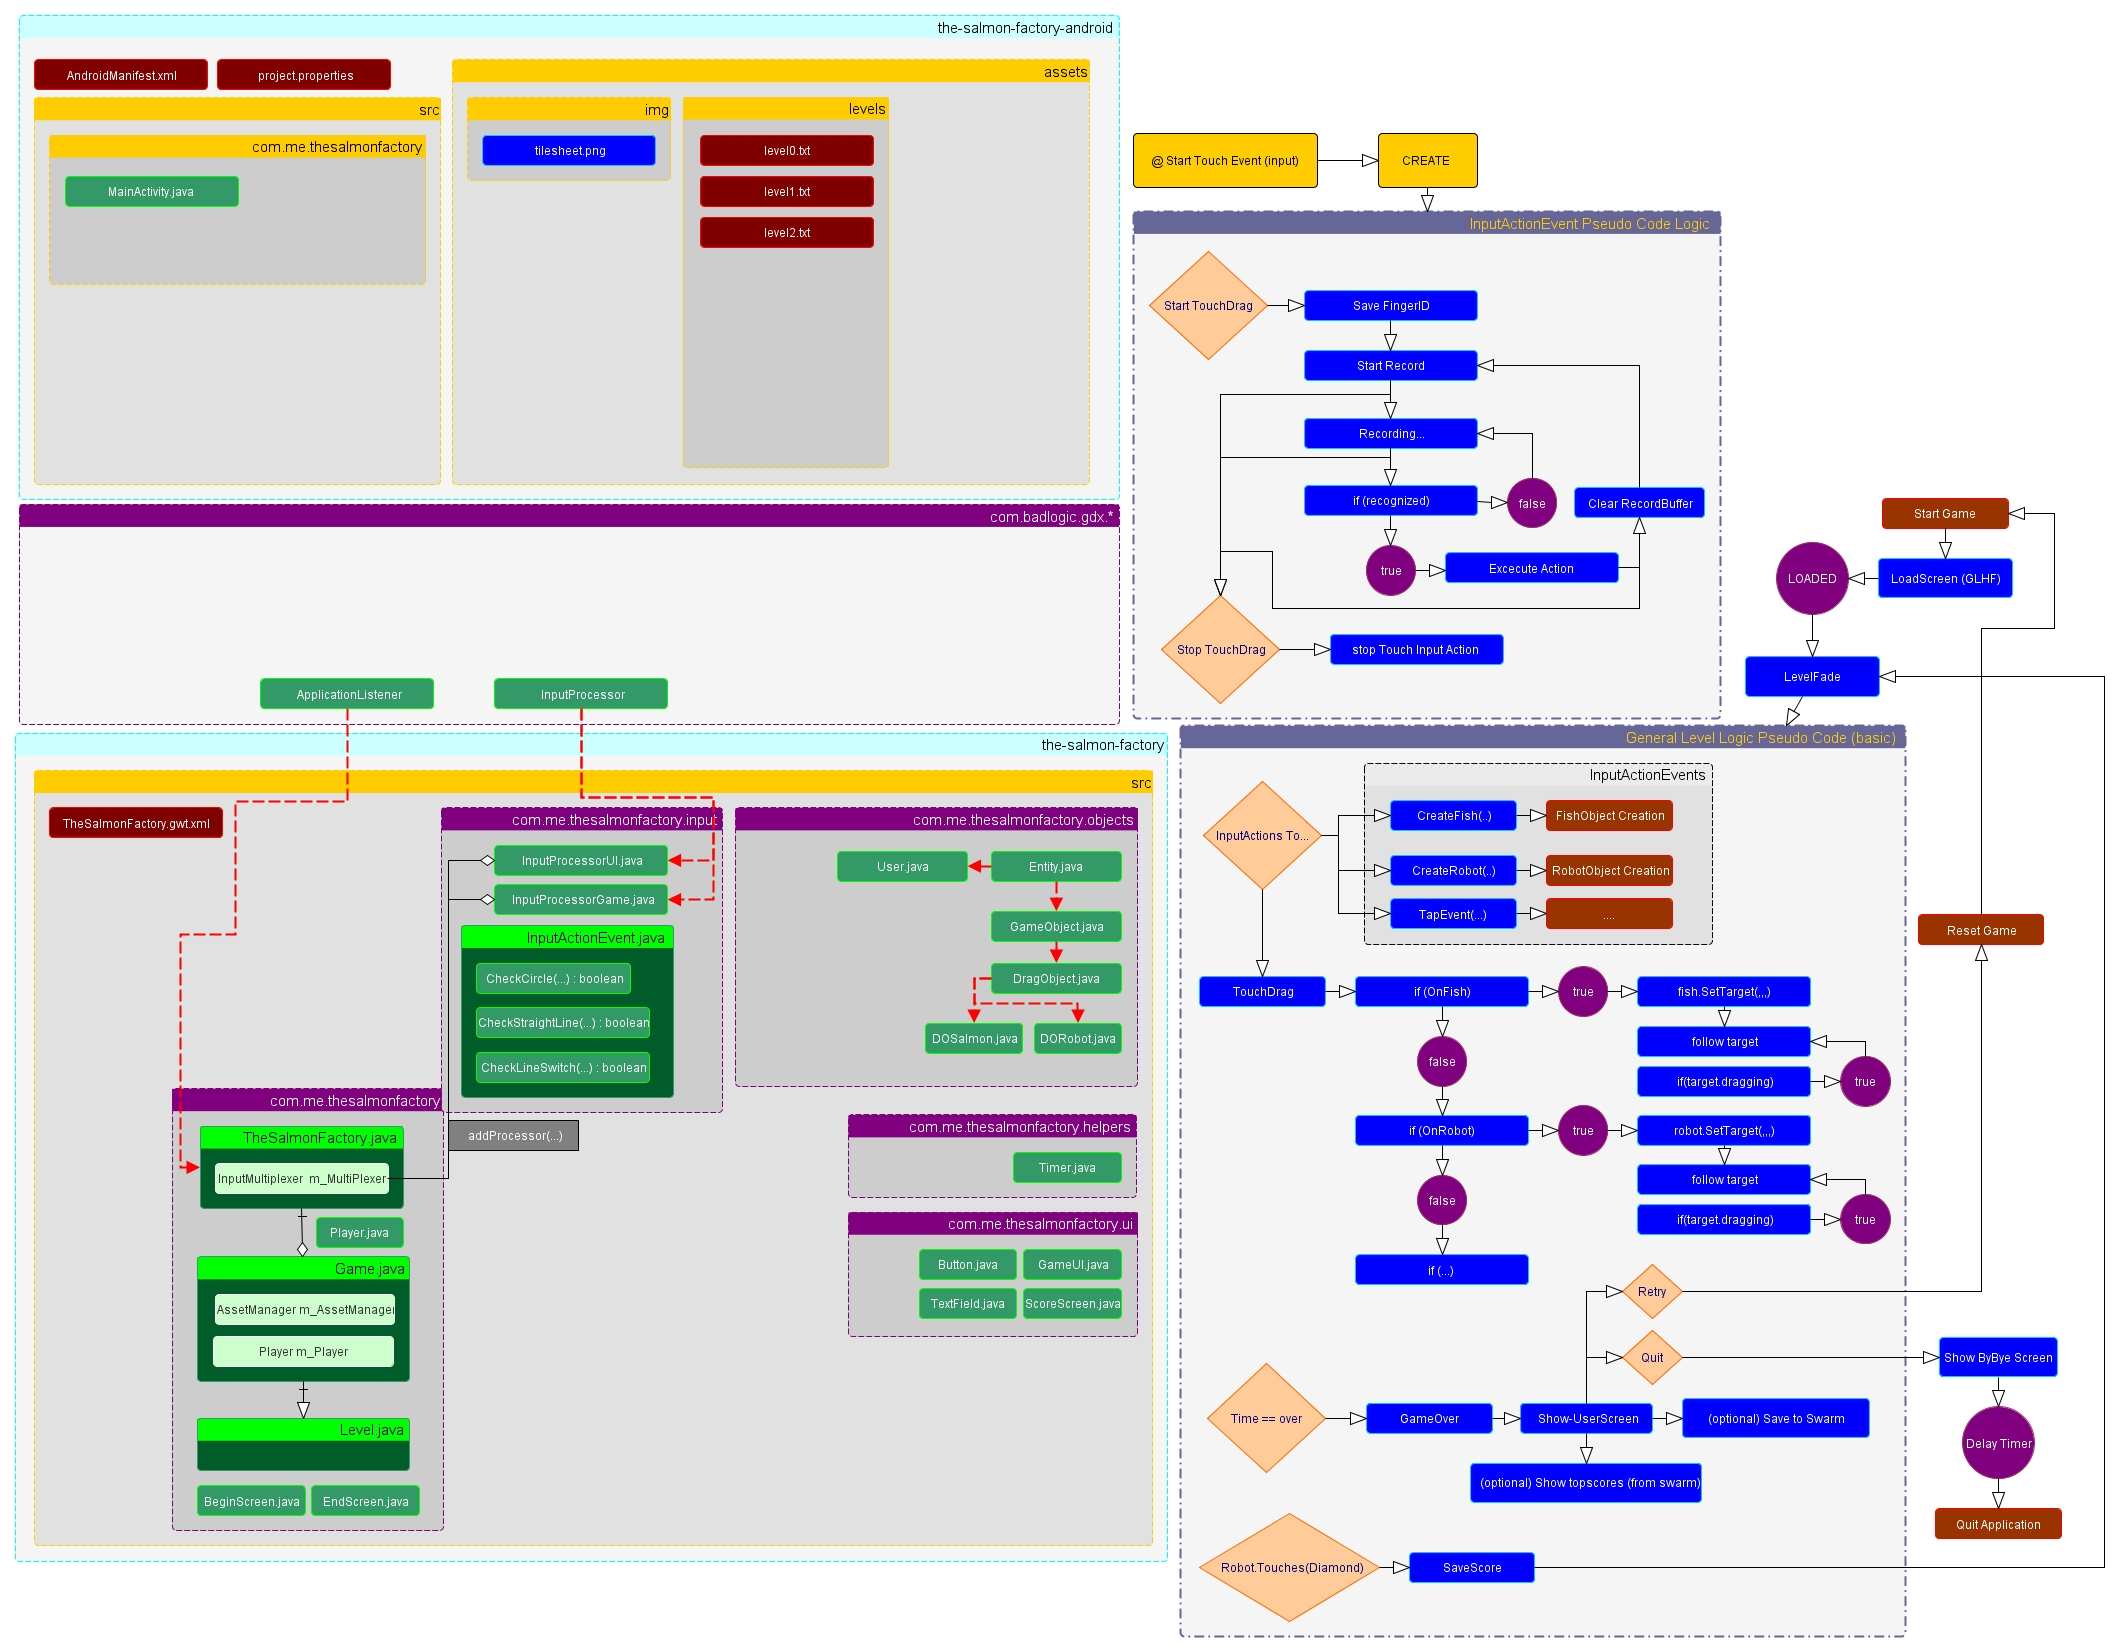
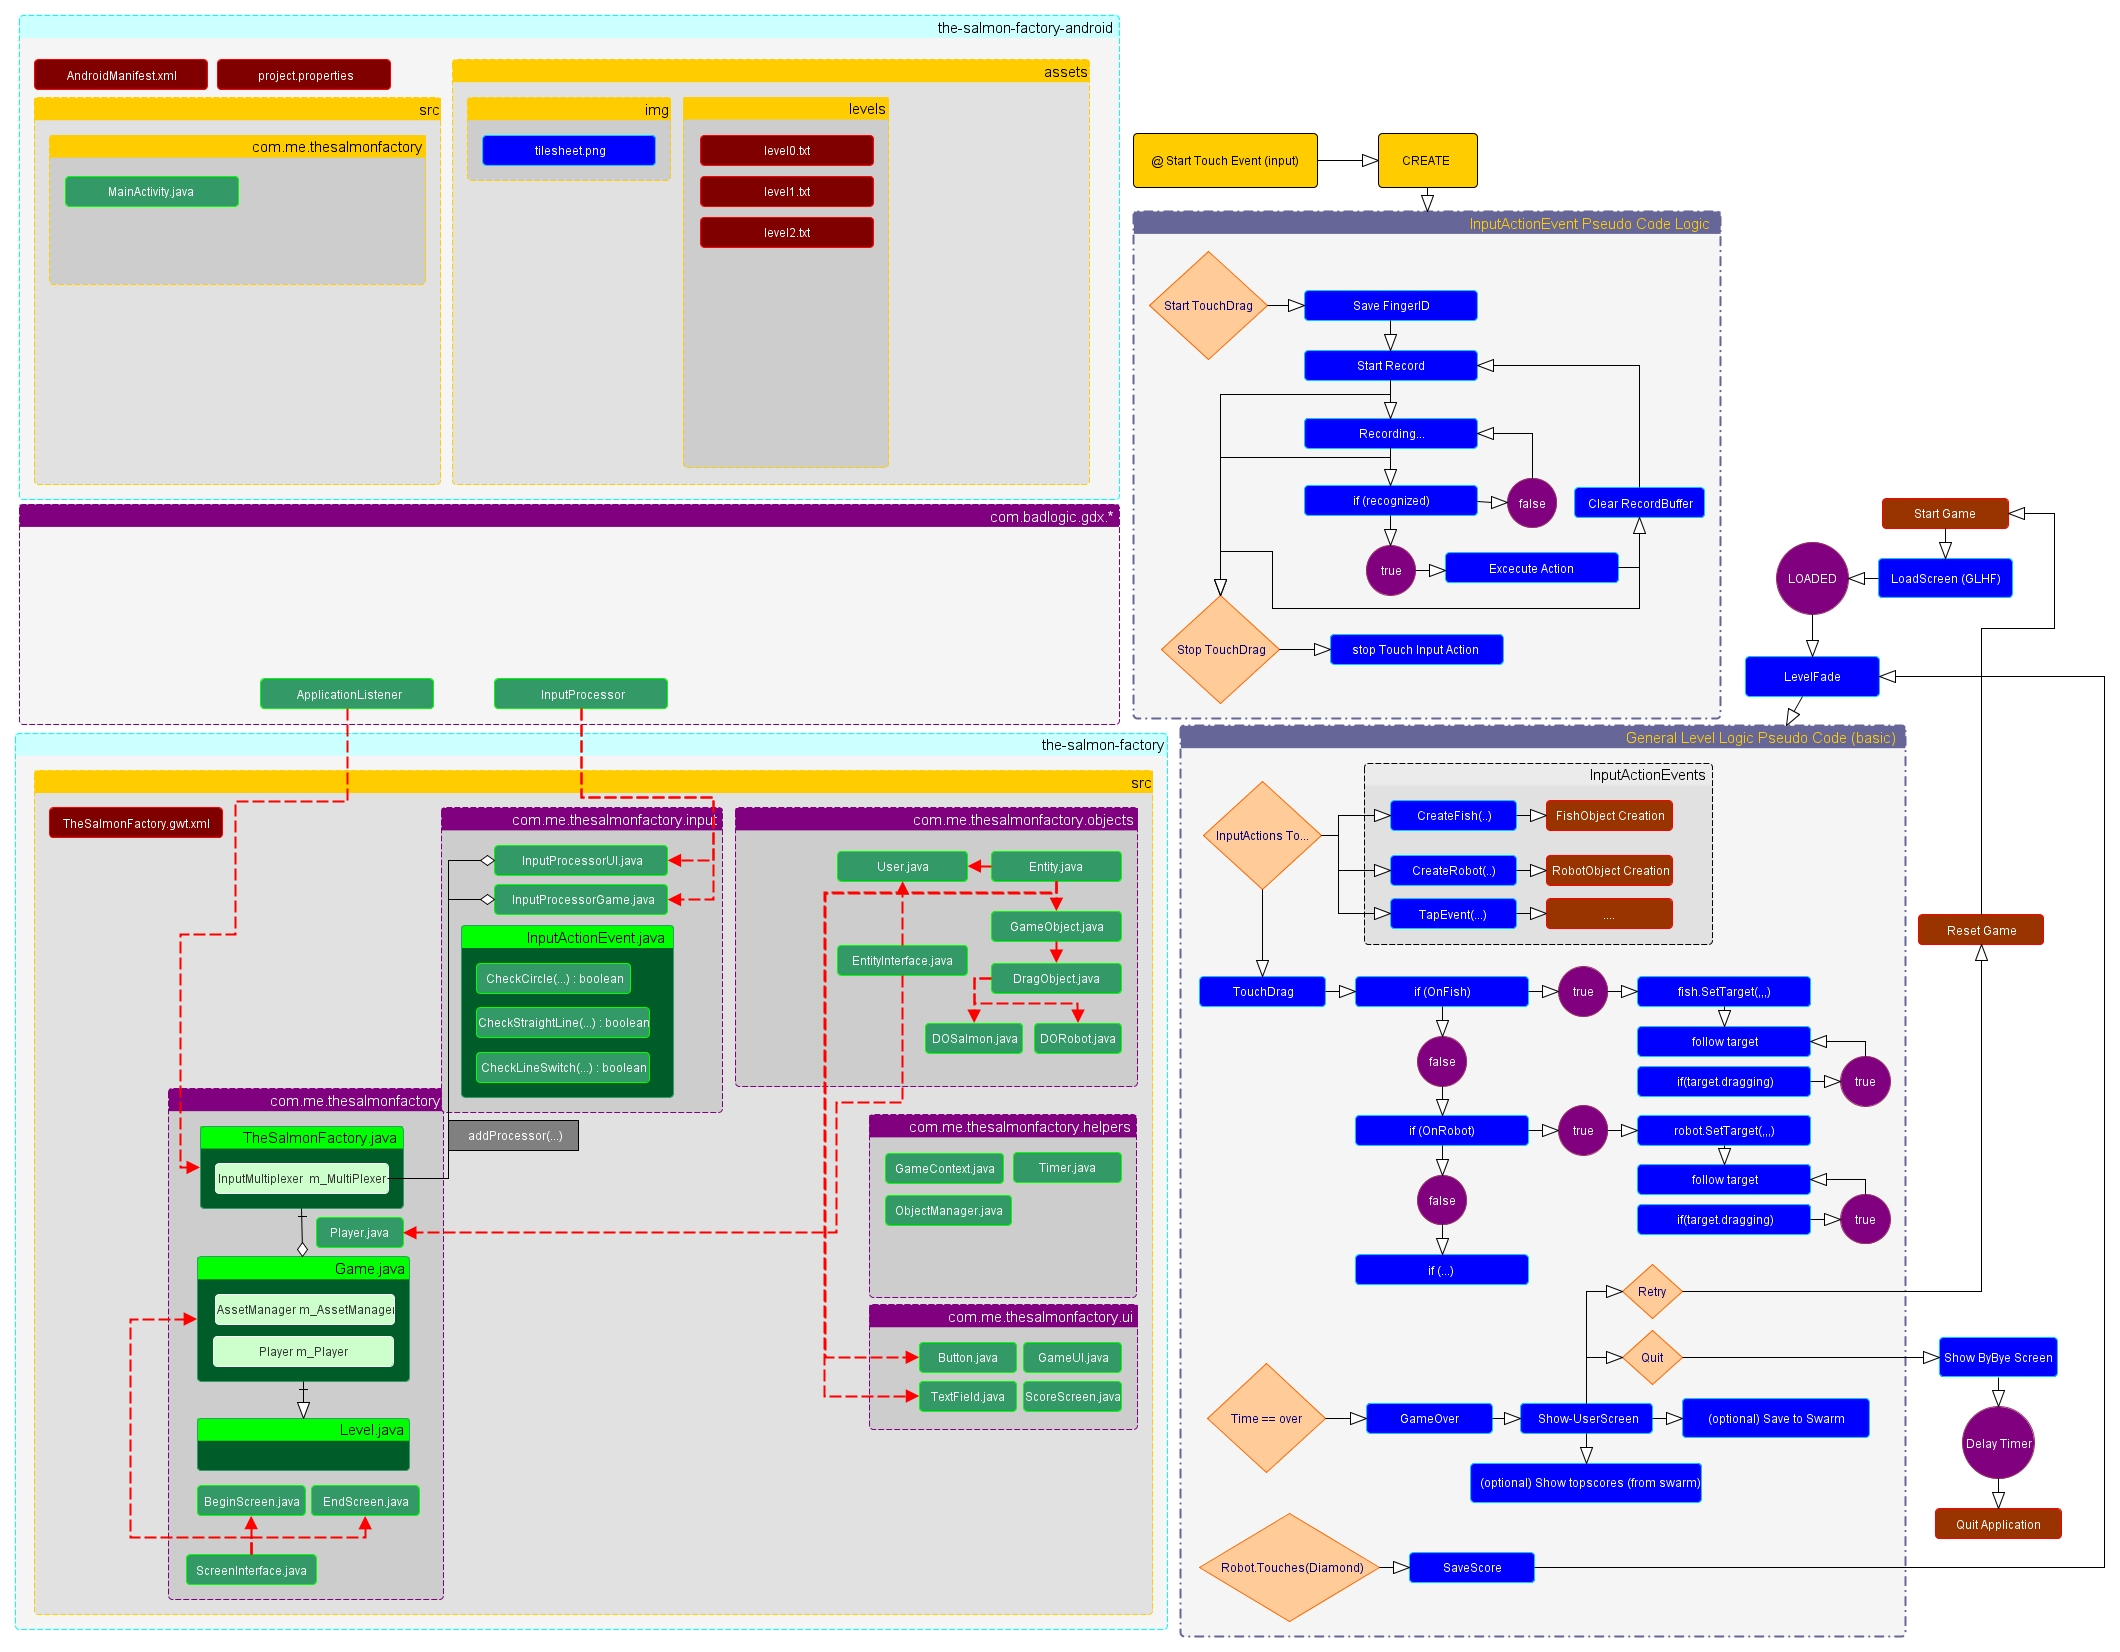
Upload progress InputActions...

diff --git a/the-salmon-factory/src/com/me/thesalmonfactory/input/InputProcessorGame.java b/the-salmon-factory/src/com/me/thesalmonfactory/input/InputProcessorGame.java
@@ -1,15 +1,24 @@
 package com.me.thesalmonfactory.input;
 
-//import com.badlogic.gdx.Gdx;
+import com.badlogic.gdx.Gdx;
 import com.badlogic.gdx.InputProcessor;
 import com.me.thesalmonfactory.Game;
+import com.me.thesalmonfactory.objects.User;
 
 //Catch all the InputEvents related to GameInformation 
 public class InputProcessorGame implements InputProcessor {
 	private Game m_Game;
+	private User[] m_Users;
+	
+	private static final int MAX_USERS = 10;
 	
 	public InputProcessorGame(Game game) {
 		m_Game = game;
+		m_Users = new User[MAX_USERS];
+		for(int i = 0; i < MAX_USERS ; ++i) {
+			m_Users[i] = new User(0,0,i);
+			m_Users[i].Initialize();
+		}
 	}
 	
    @Override
@@ -31,6 +40,9 @@ public class InputProcessorGame implements InputProcessor {
    public boolean touchDown (int x, int y, int pointer, int button) {
 	  m_Game.ProcessTouchDown(x, y, pointer);
 	  //Gdx.app.log("TouchDown", "x == " + x + " && y == " + y + " && pointer == " + pointer + " && button == " + button);
+	  if(pointer < MAX_USERS && pointer > -1) {
+		  m_Users[pointer].StartRecord(x, y);
+	  }
       return false;
    }
 
@@ -38,6 +50,23 @@ public class InputProcessorGame implements InputProcessor {
    public boolean touchUp (int x, int y, int pointer, int button) {
 	  m_Game.ProcessTouchUp(x, y, pointer);
 	  //Gdx.app.log("TouchUp", "x == " + x + " && y == " + y + " && pointer == " + pointer + " && button == " + button);
+	  if(pointer < MAX_USERS && pointer > -1) {
+		  switch(m_Users[pointer].StopRecord(x, y)) {
+			  case LINE:
+				  m_Game.ProcessActionLine(x, y);
+				  Gdx.app.log("Line Recorded @ ", "x == " + x + " && y == " + y + " && pointer == " + pointer + " && button == " + button);
+				  break;
+			  case MULTI_LINES:
+				  m_Game.ProcessActionMultiLines(x, y);
+				  break;
+			  case CIRCLE:
+				  m_Game.ProcessActionCircle(x, y);
+				  break;
+			  default:
+				  // else ... DO NOTHING!
+				  break;
+		  }
+	  }
       return false;
    }
 
@@ -45,6 +74,9 @@ public class InputProcessorGame implements InputProcessor {
    public boolean touchDragged (int x, int y, int pointer) {
 	  m_Game.ProcessTouchDown(x, y, pointer);
 	  //Gdx.app.log("TouchDrag", "x == " + x + " && y == " + y + " && pointer == " + pointer);
+	  if(pointer < MAX_USERS && pointer > -1) {
+		  m_Users[pointer].Record(x, y);
+	  }
       return false;
    }
 

diff --git a/the-salmon-factory/src/com/me/thesalmonfactory/objects/User.java b/the-salmon-factory/src/com/me/thesalmonfactory/objects/User.java
@@ -1,15 +1,33 @@
 package com.me.thesalmonfactory.objects;
 
+import com.badlogic.gdx.Gdx;
+import com.badlogic.gdx.math.Vector2;
 import com.me.thesalmonfactory.helpers.GameContext;
 
 public class User extends Entity{
 	
+	public enum InputAction {
+		NOTHING, LINE, MULTI_LINES, CIRCLE
+	}
+	
 	public int m_ID;
+	public boolean m_Active;
+	
+	private Vector2 m_StartPosition;
+	private Vector2 m_CurrentPosition;
+	private Vector2 m_Direction;
+	
+	private static final int INITIAL_DIRECTION_DISTANCE_CHECK = 5;
 	
 	public User(int x, int y, int id)
 	{
 		super(x, y, 0, 0);
 		m_ID = id;
+		m_Active = false;
+		
+		m_StartPosition = new Vector2(0,0);
+		m_CurrentPosition = new Vector2(0,0);
+		m_Direction = new Vector2(0,0);
 	}
 	
 	@Override
@@ -34,5 +52,49 @@ public class User extends Entity{
 	public void Update(GameContext context) {
 		// TODO Auto-generated method stub
 		super.Update(context);
+		
+		if(m_Active) {
+			Vector2 lengthVector = new Vector2(  	m_CurrentPosition.x - m_StartPosition.x, 
+													m_CurrentPosition.x - m_StartPosition.x);
+			float length = lengthVector.len();
+			if(m_Direction.x == 0 && m_Direction.y == 0 && 
+					length > INITIAL_DIRECTION_DISTANCE_CHECK) {
+				m_Direction = lengthVector;
+			}
+		}
+	}
+	
+	public void Record(int x, int y) { 
+		m_CurrentPosition.x = x;
+		m_CurrentPosition.y = y;
+	}
+	
+	public void StartRecord(int x, int y) { 
+		m_StartPosition.x = x;
+		m_StartPosition.y = y;
+		m_Active = true;
+	}
+	
+	public InputAction StopRecord(int x, int y) {
+		InputAction action = CheckForAction(x, y);
+		
+		m_Active = false;
+		m_Direction.x = 0;
+		m_Direction.y = 0;
+		
+		return action;
+	}
+	
+	private InputAction CheckForAction(int x, int y) {
+		Vector2 lengthVector = new Vector2(m_CurrentPosition.x -m_StartPosition.x, m_CurrentPosition.y - m_StartPosition.x);
+		float length = lengthVector.len();
+		Gdx.app.log("Length", "Length == " + length);
+		Gdx.app.log("Position Info", "m_CurrentPosition == " + m_CurrentPosition.x + "," + m_CurrentPosition.y + " && m_StartPosition == " 
+				+ m_StartPosition.x + "," + m_StartPosition.y);
+		if(length > GameContext.TILE_WIDTH * 0.75 && 
+				length < GameContext.TILE_WIDTH * 1.25) {
+			return InputAction.LINE;
+		}
+		return InputAction.NOTHING;
 	}
 }

diff --git a/the-salmon-factory/src/com/me/thesalmonfactory/helpers/GameContext.java b/the-salmon-factory/src/com/me/thesalmonfactory/helpers/GameContext.java
@@ -10,7 +10,7 @@ public class GameContext {
 	public OrthographicCamera Camera;
 	public SpriteBatch Batch;
 	
-	public static final int TILE_WIDTH = 32;
+	public static int TILE_WIDTH = 32;
 	public static final int HOR_TILES = 32;
 	
 	private Texture m_Spritesheet;
@@ -18,6 +18,7 @@ public class GameContext {
 	public void Initialize()
 	{
 		m_Spritesheet = new Texture(Gdx.files.internal("img/tilesheet-32.png"));
+		TILE_WIDTH = Gdx.app.getGraphics().getWidth() / 13;
 	}
 	
 	public void Dispose()

diff --git a/the-salmon-factory/src/com/me/thesalmonfactory/Game.java b/the-salmon-factory/src/com/me/thesalmonfactory/Game.java
@@ -48,4 +48,16 @@ public class Game implements ScreenInterface {
 	public void ProcessTouchDrag(int x, int y, int userID) {
 		m_ObjectManager.ProcessTouchDrag(x, y, userID);
 	}
+	
+	public void ProcessActionLine(int x, int y) {
+		
+	}
+	
+	public void ProcessActionMultiLines(int x, int y) {
+		
+	}
+	
+	public void ProcessActionCircle(int x, int y) {
+		
+	}
 }

diff --git a/the-salmon-factory/src/com/me/thesalmonfactory/input/InputActionEvents.java b/the-salmon-factory/src/com/me/thesalmonfactory/input/InputActionEvents.java
@@ -1,0 +1,5 @@
+package com.me.thesalmonfactory.input;
+
+public class InputActionEvents {
+
+}
